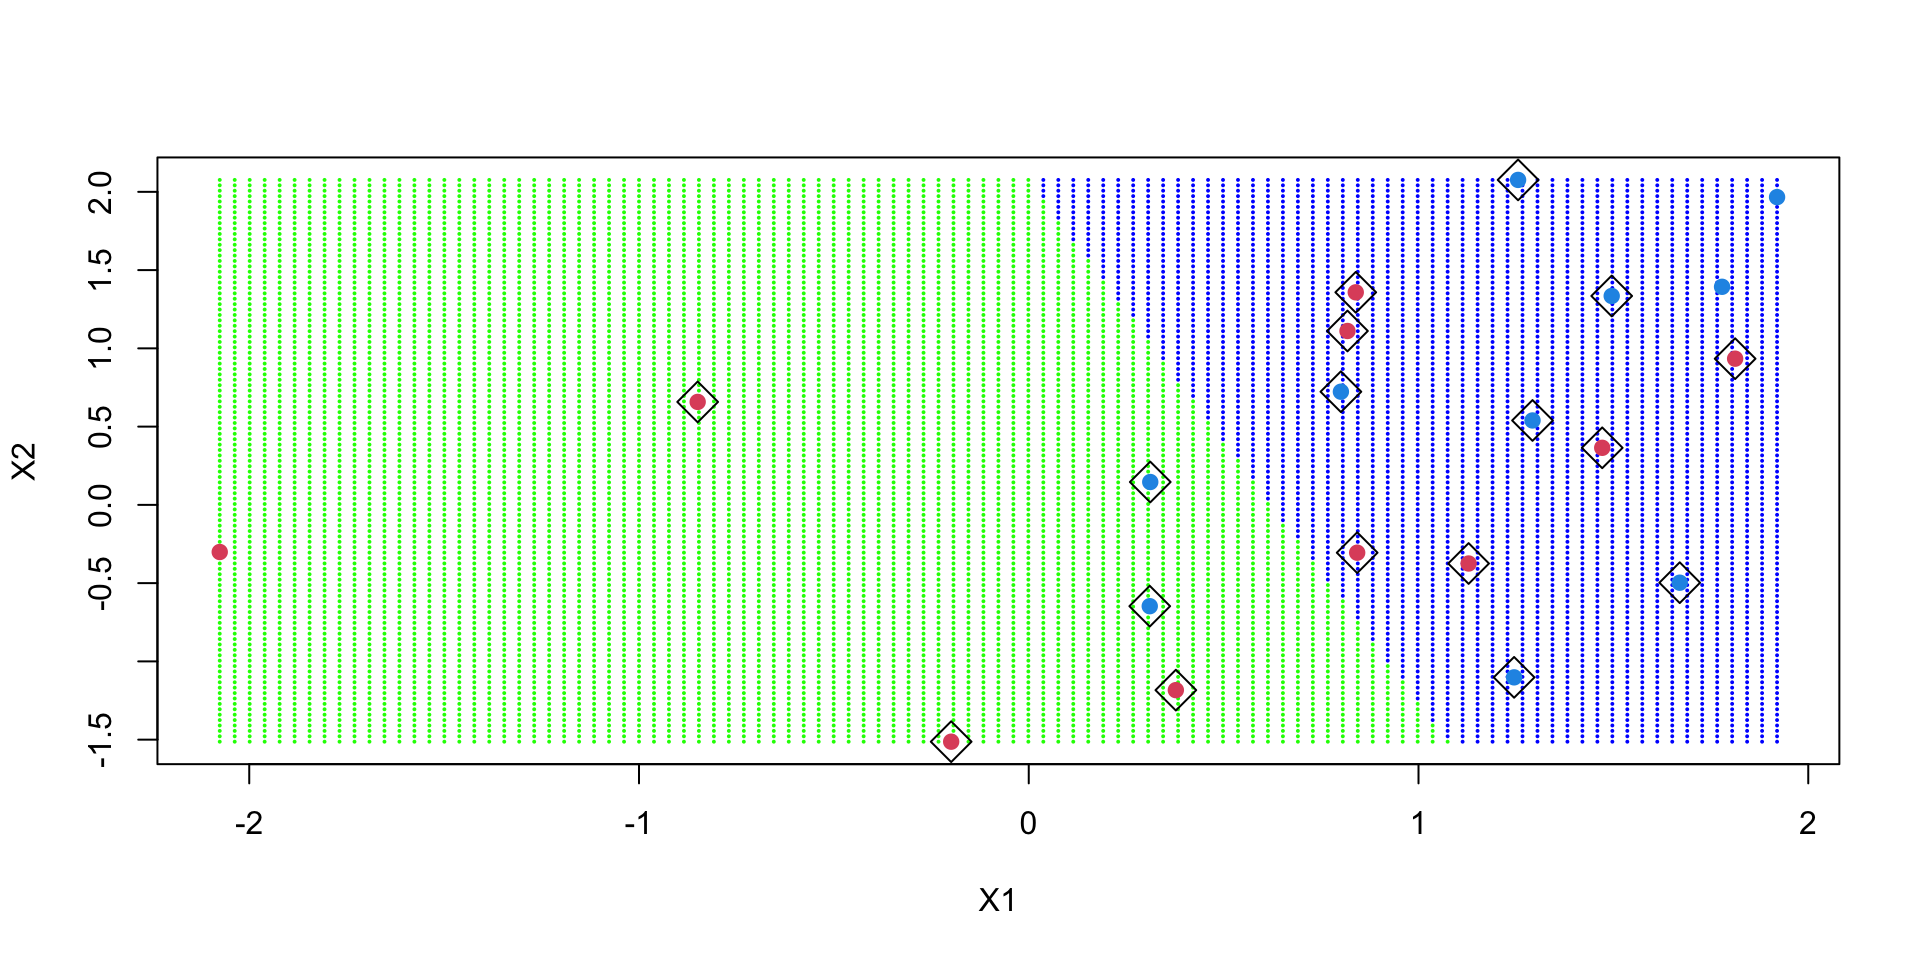
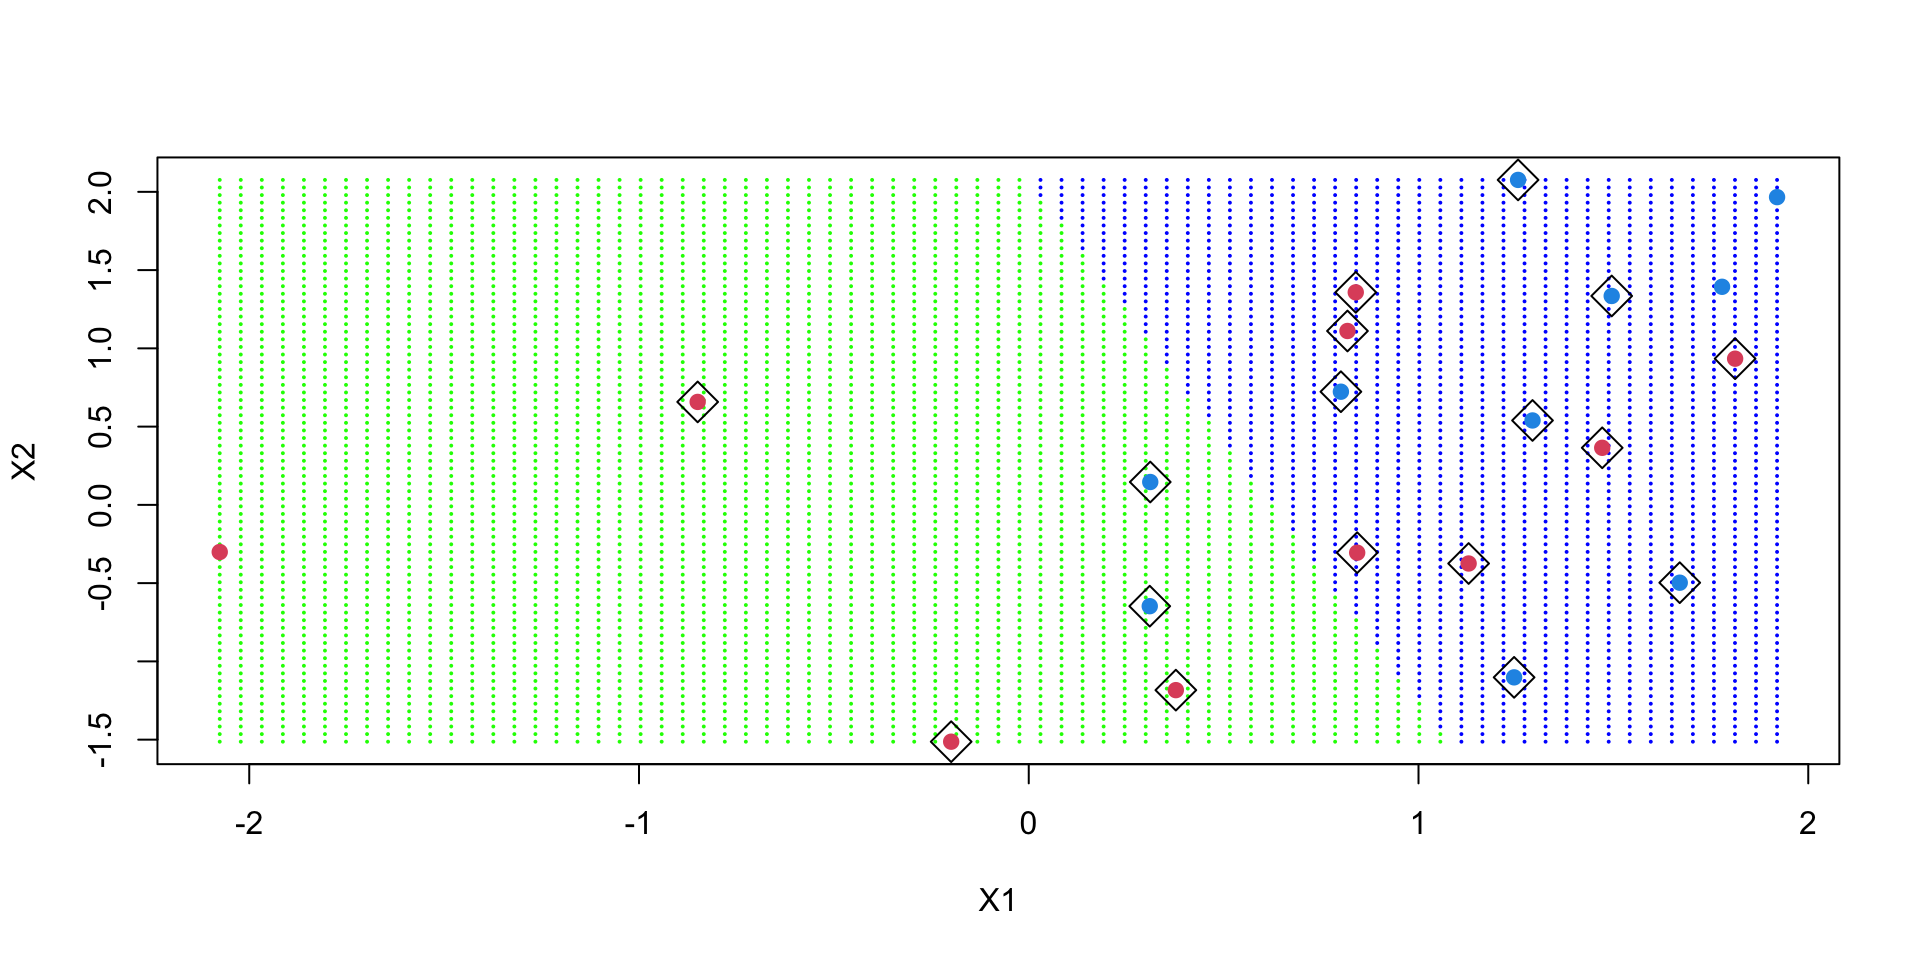
s

Changed region(s): [[0.0938, 0.1875, 0.9375, 0.7812]]

diff --git a/slides.html b/slides.html
@@ -512,15 +512,15 @@ Number of Support Vectors:  17</code></pre>
 <div class="cell-output cell-output-stdout">
 <pre><code>          X1        X2
 1  -2.075718 -1.513035
-2  -2.037298 -1.513035
-3  -1.998878 -1.513035
-4  -1.960458 -1.513035
-5  -1.922038 -1.513035
-6  -1.883618 -1.513035
-7  -1.845198 -1.513035
-8  -1.806778 -1.513035
-9  -1.768358 -1.513035
-10 -1.729938 -1.513035</code></pre>
+2  -2.021722 -1.513035
+3  -1.967727 -1.513035
+4  -1.913731 -1.513035
+5  -1.859735 -1.513035
+6  -1.805739 -1.513035
+7  -1.751744 -1.513035
+8  -1.697748 -1.513035
+9  -1.643752 -1.513035
+10 -1.589756 -1.513035</code></pre>
 </div>
 <div class="cell-output-display">
 <p><img data-src="slides_files/figure-revealjs/unnamed-chunk-1-3.png" width="960"></p>
